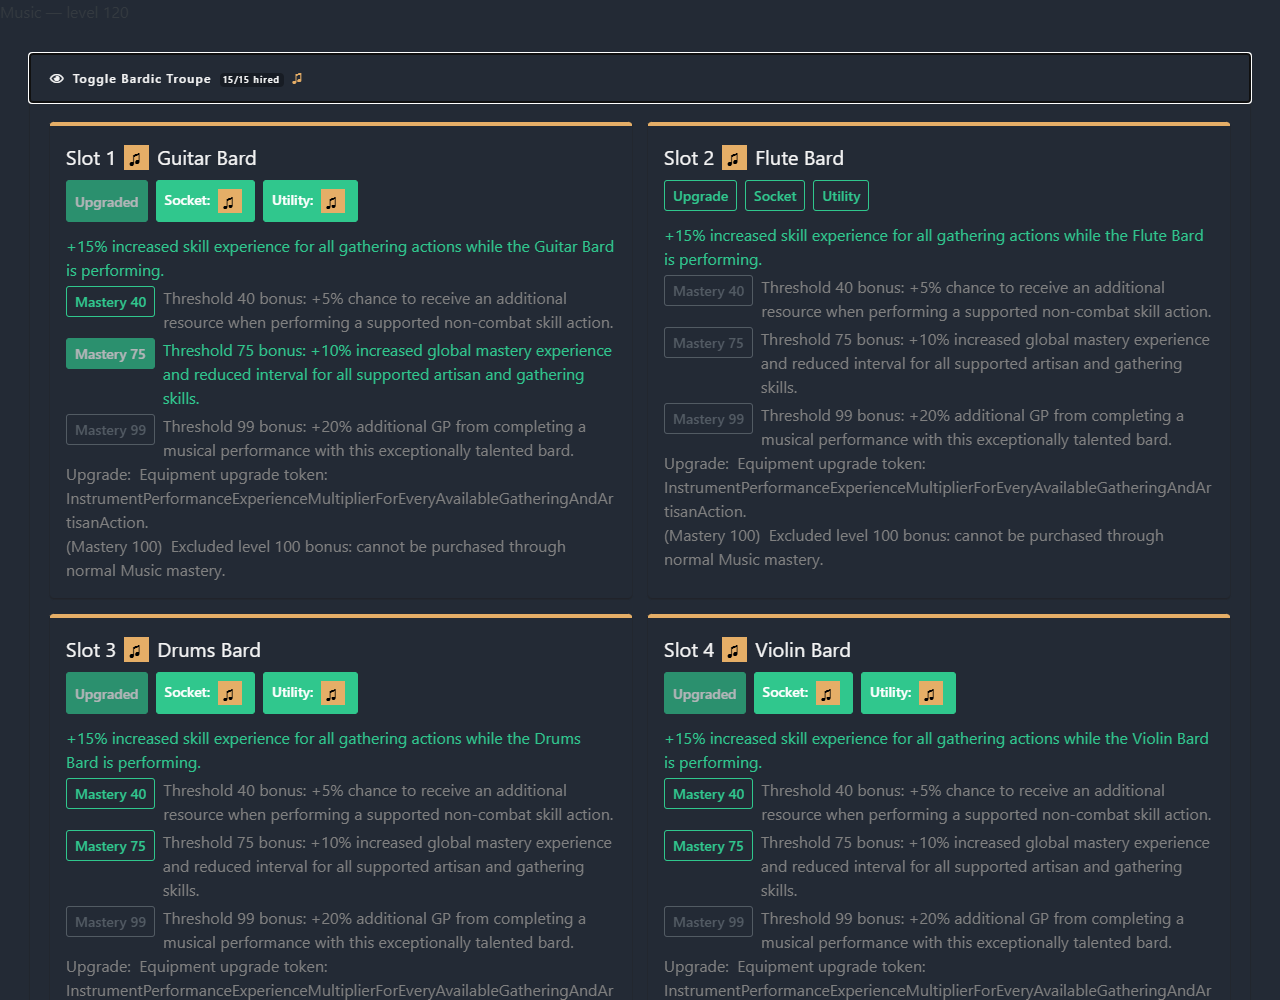
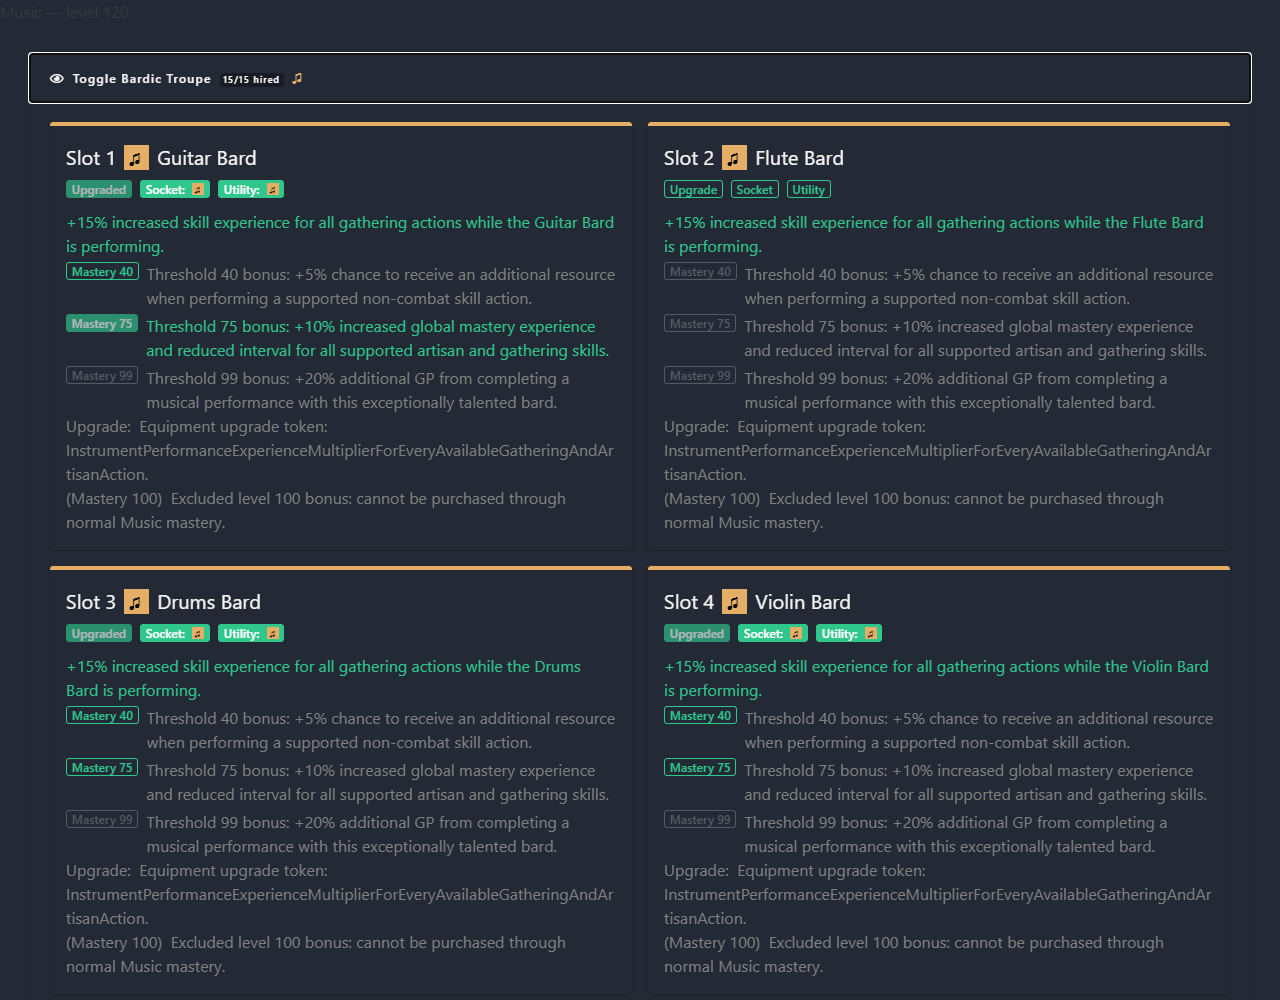
Compact roster shortcut buttons
- Match mastery and enhancement buttons to native label height
- Scale equipped gem and utility icons to fit compact controls
- Update shortcut documentation and desktop and phone previews

Changed region(s): [[0.0312, 0.155, 0.9375, 1.0]]

diff --git a/ui.css b/ui.css
@@ -35,6 +35,20 @@
   font-weight: bold;
 }
 
+#bardic-troupe-slots .btn {
+  /* Match native badge height, including the button's 1px borders. */
+  padding: calc(0.25em - 1px) 0.4em;
+  font-size: 75%;
+  line-height: 1;
+}
+
+#bardic-troupe-slots .btn > img {
+  width: 1em;
+  height: 1em;
+  margin: 0;
+  vertical-align: top;
+}
+
 .bardic-troupe-mastery-row {
   display: flex;
   align-items: flex-start;

diff --git a/MOD_IO.md b/MOD_IO.md
@@ -38,6 +38,7 @@ The roster starts collapsed whenever the interface loads, and the bar also suppo
 Cards appear in two columns when there is room and stack in one column in narrow panels.
 Hiring and bonus updates keep the roster open or closed as you left it.
 
+All roster shortcuts match the compact height of Melvor's labels, with item icons scaled to fit.
 Missing enhancements have green outlined buttons; applied enhancements have solid green buttons.
 The completed **Upgraded** button is disabled, while **Socket** and **Utility** remain clickable and show the equipped item's icon, with its name in the tooltip.
 Each shortcut opens the matching Music menu and retains normal material requirements.
@@ -87,6 +88,7 @@ Use a 16:9 image of at least 512 × 288 pixels and no more than 8 MB.
 
 - Replace the roster's Instrument button and status badges with direct Upgrade, Socket, and Utility menu shortcuts, using outlines for missing enhancements and solid green for applied ones.
 - Show equipped gem and utility icons, keep their selection menus available, and disable the completed Upgraded button.
+- Size roster shortcuts like native labels and scale gem and utility icons to fit.
 - Add Mastery 40, 75, and 99 shortcuts with grey, green outlined, and solid green states for locked, available, and purchased bonuses.
 - Open only Music's native confirmation for an available mastery tier, close it after purchase or cancellation, and disable purchased mastery buttons while retaining normal costs and skill-card controls.
 - Keep the gold music-note cue on native instrument Mastery buttons while eligible bonuses remain unpurchased.

diff --git a/README.md b/README.md
@@ -31,6 +31,7 @@ The bar also supports Enter and Space when focused.
 Bard cards use two columns when the panel is at least 46rem wide, or 736px at the standard text size, and stack in one column when the panel is narrower.
 Hiring or refreshing bard bonuses keeps the roster in its current open or closed state.
 Each hired bard has separate **Upgrade**, **Socket**, and **Utility** shortcut buttons instead of an Instrument button.
+All roster shortcuts match the compact height of Melvor's labels, with item icons scaled to fit.
 Missing enhancements use a green outline; applied enhancements use solid green.
 An upgraded instrument shows a disabled **Upgraded** button.
 Socket and Utility buttons show the equipped item's icon when filled, with its name in the tooltip and accessible label, and remain clickable so you can change the item.
